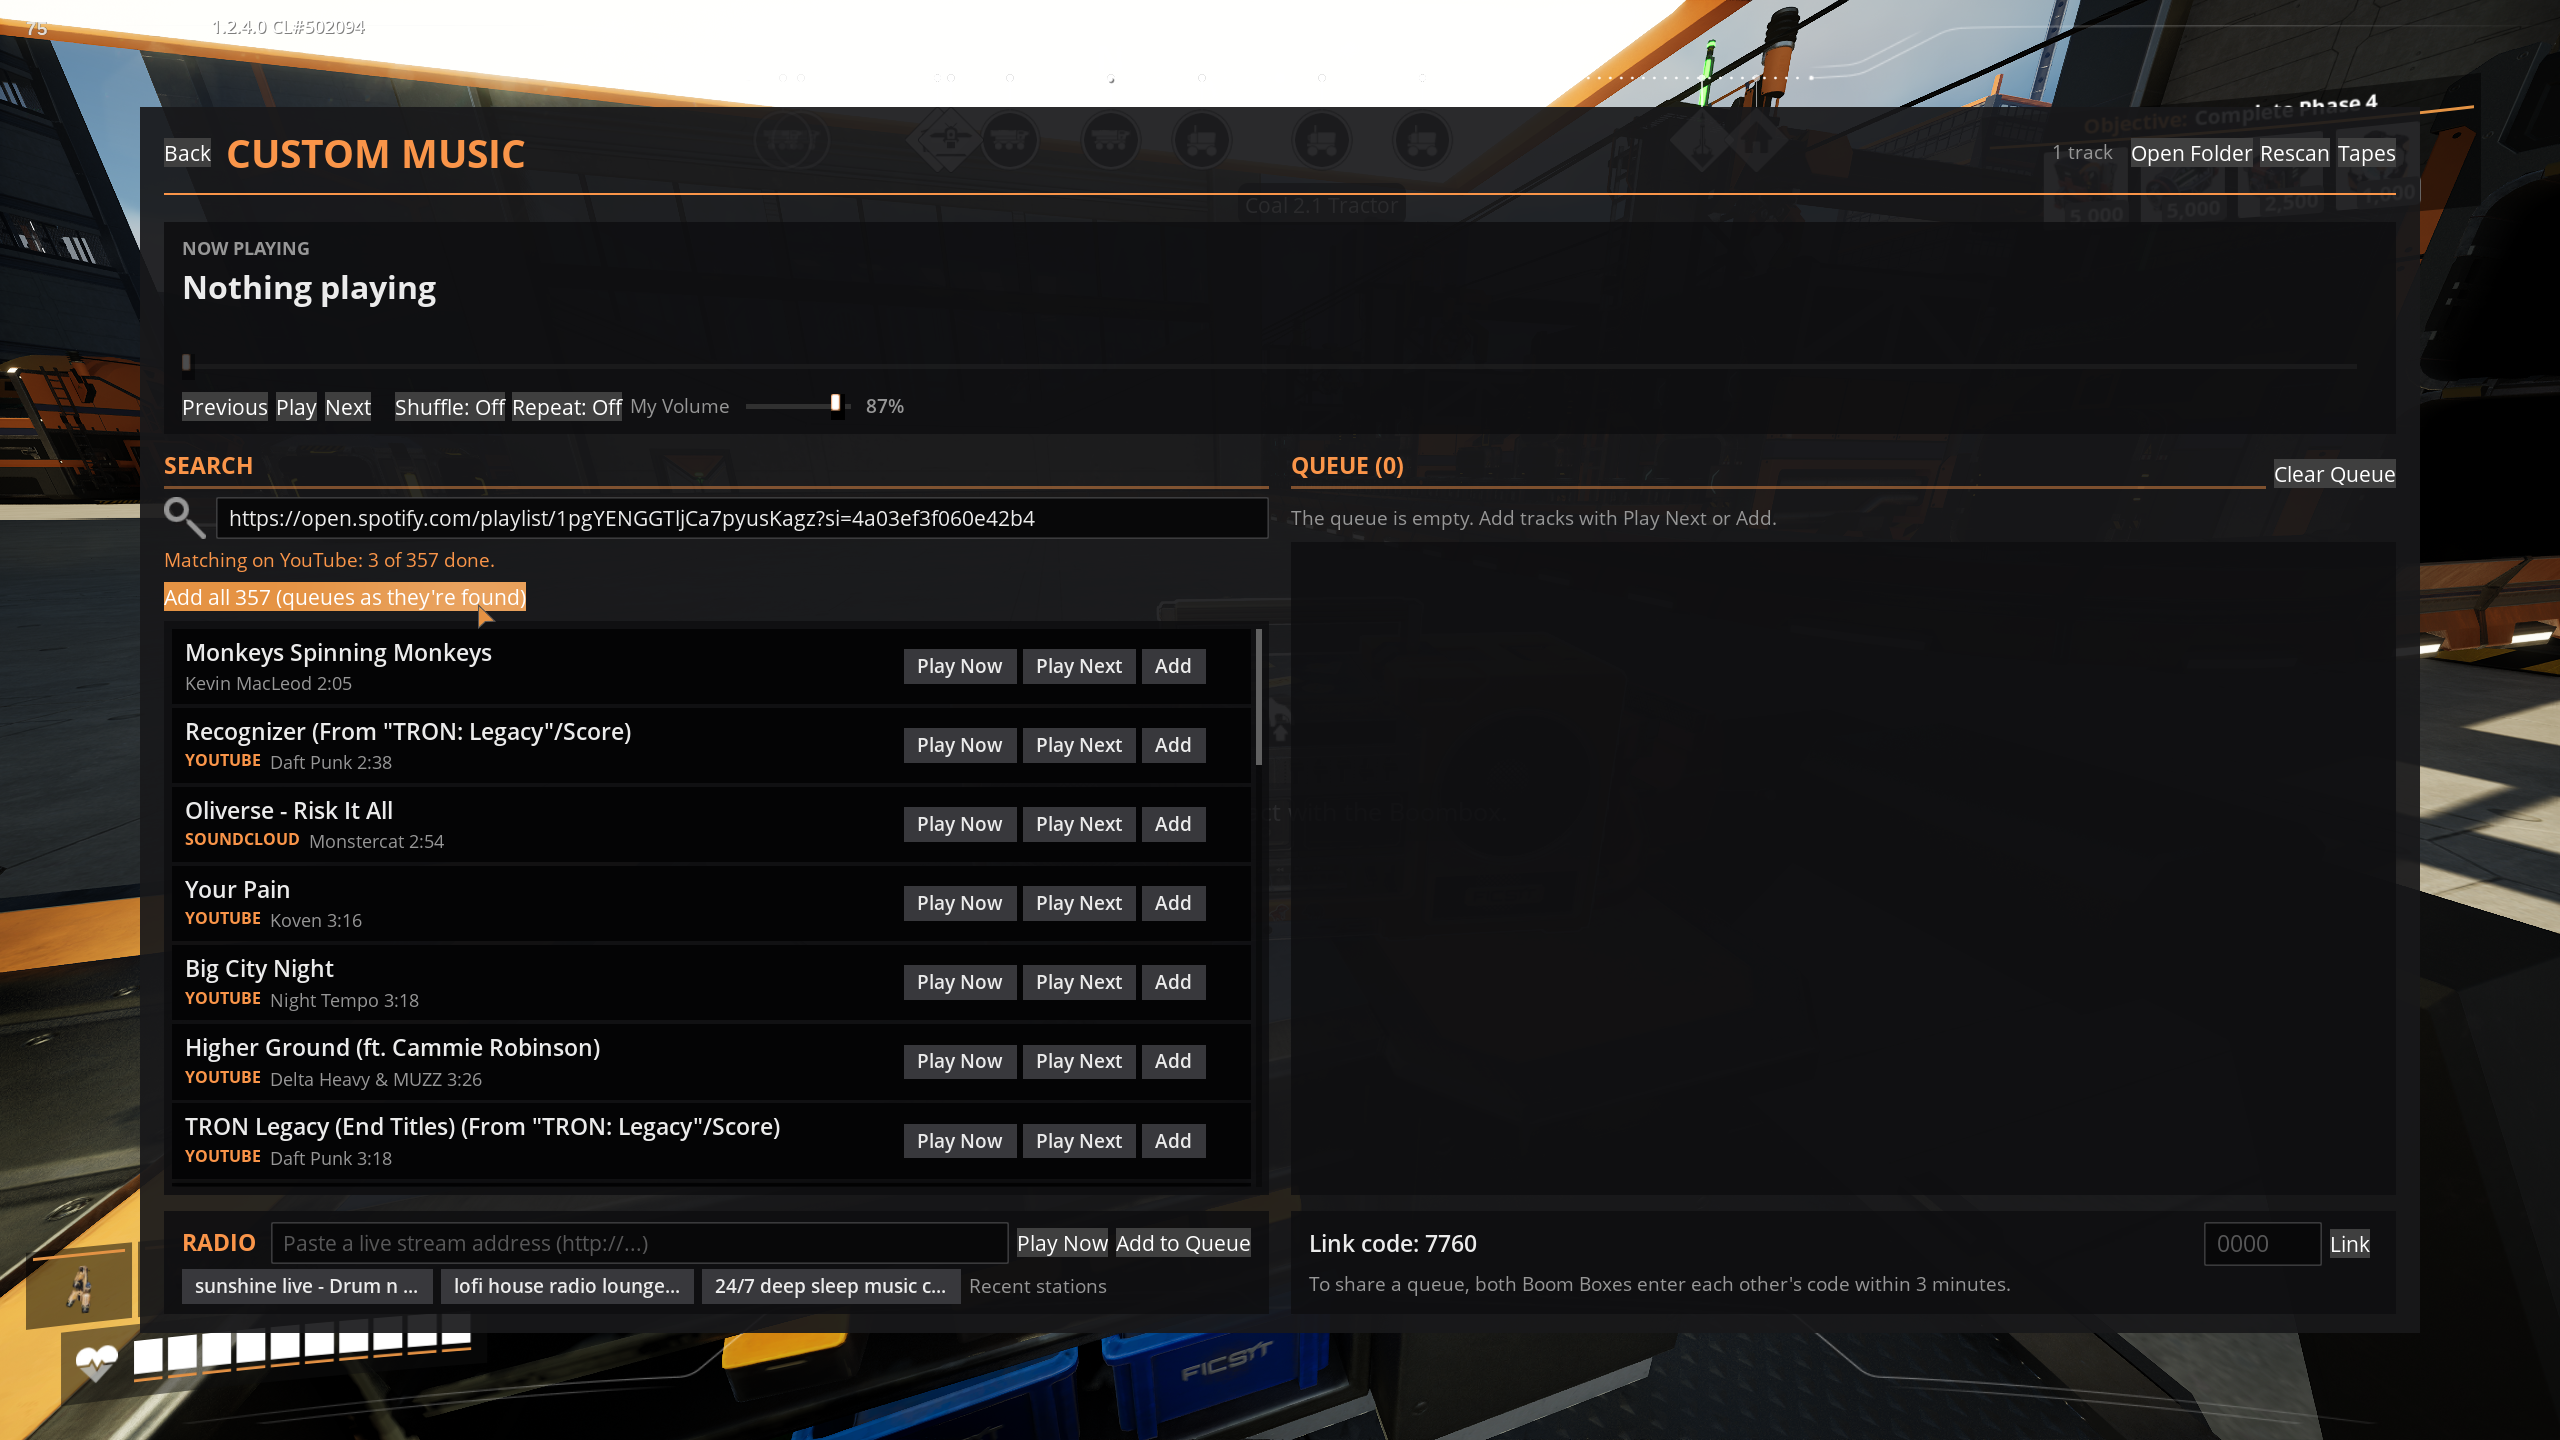
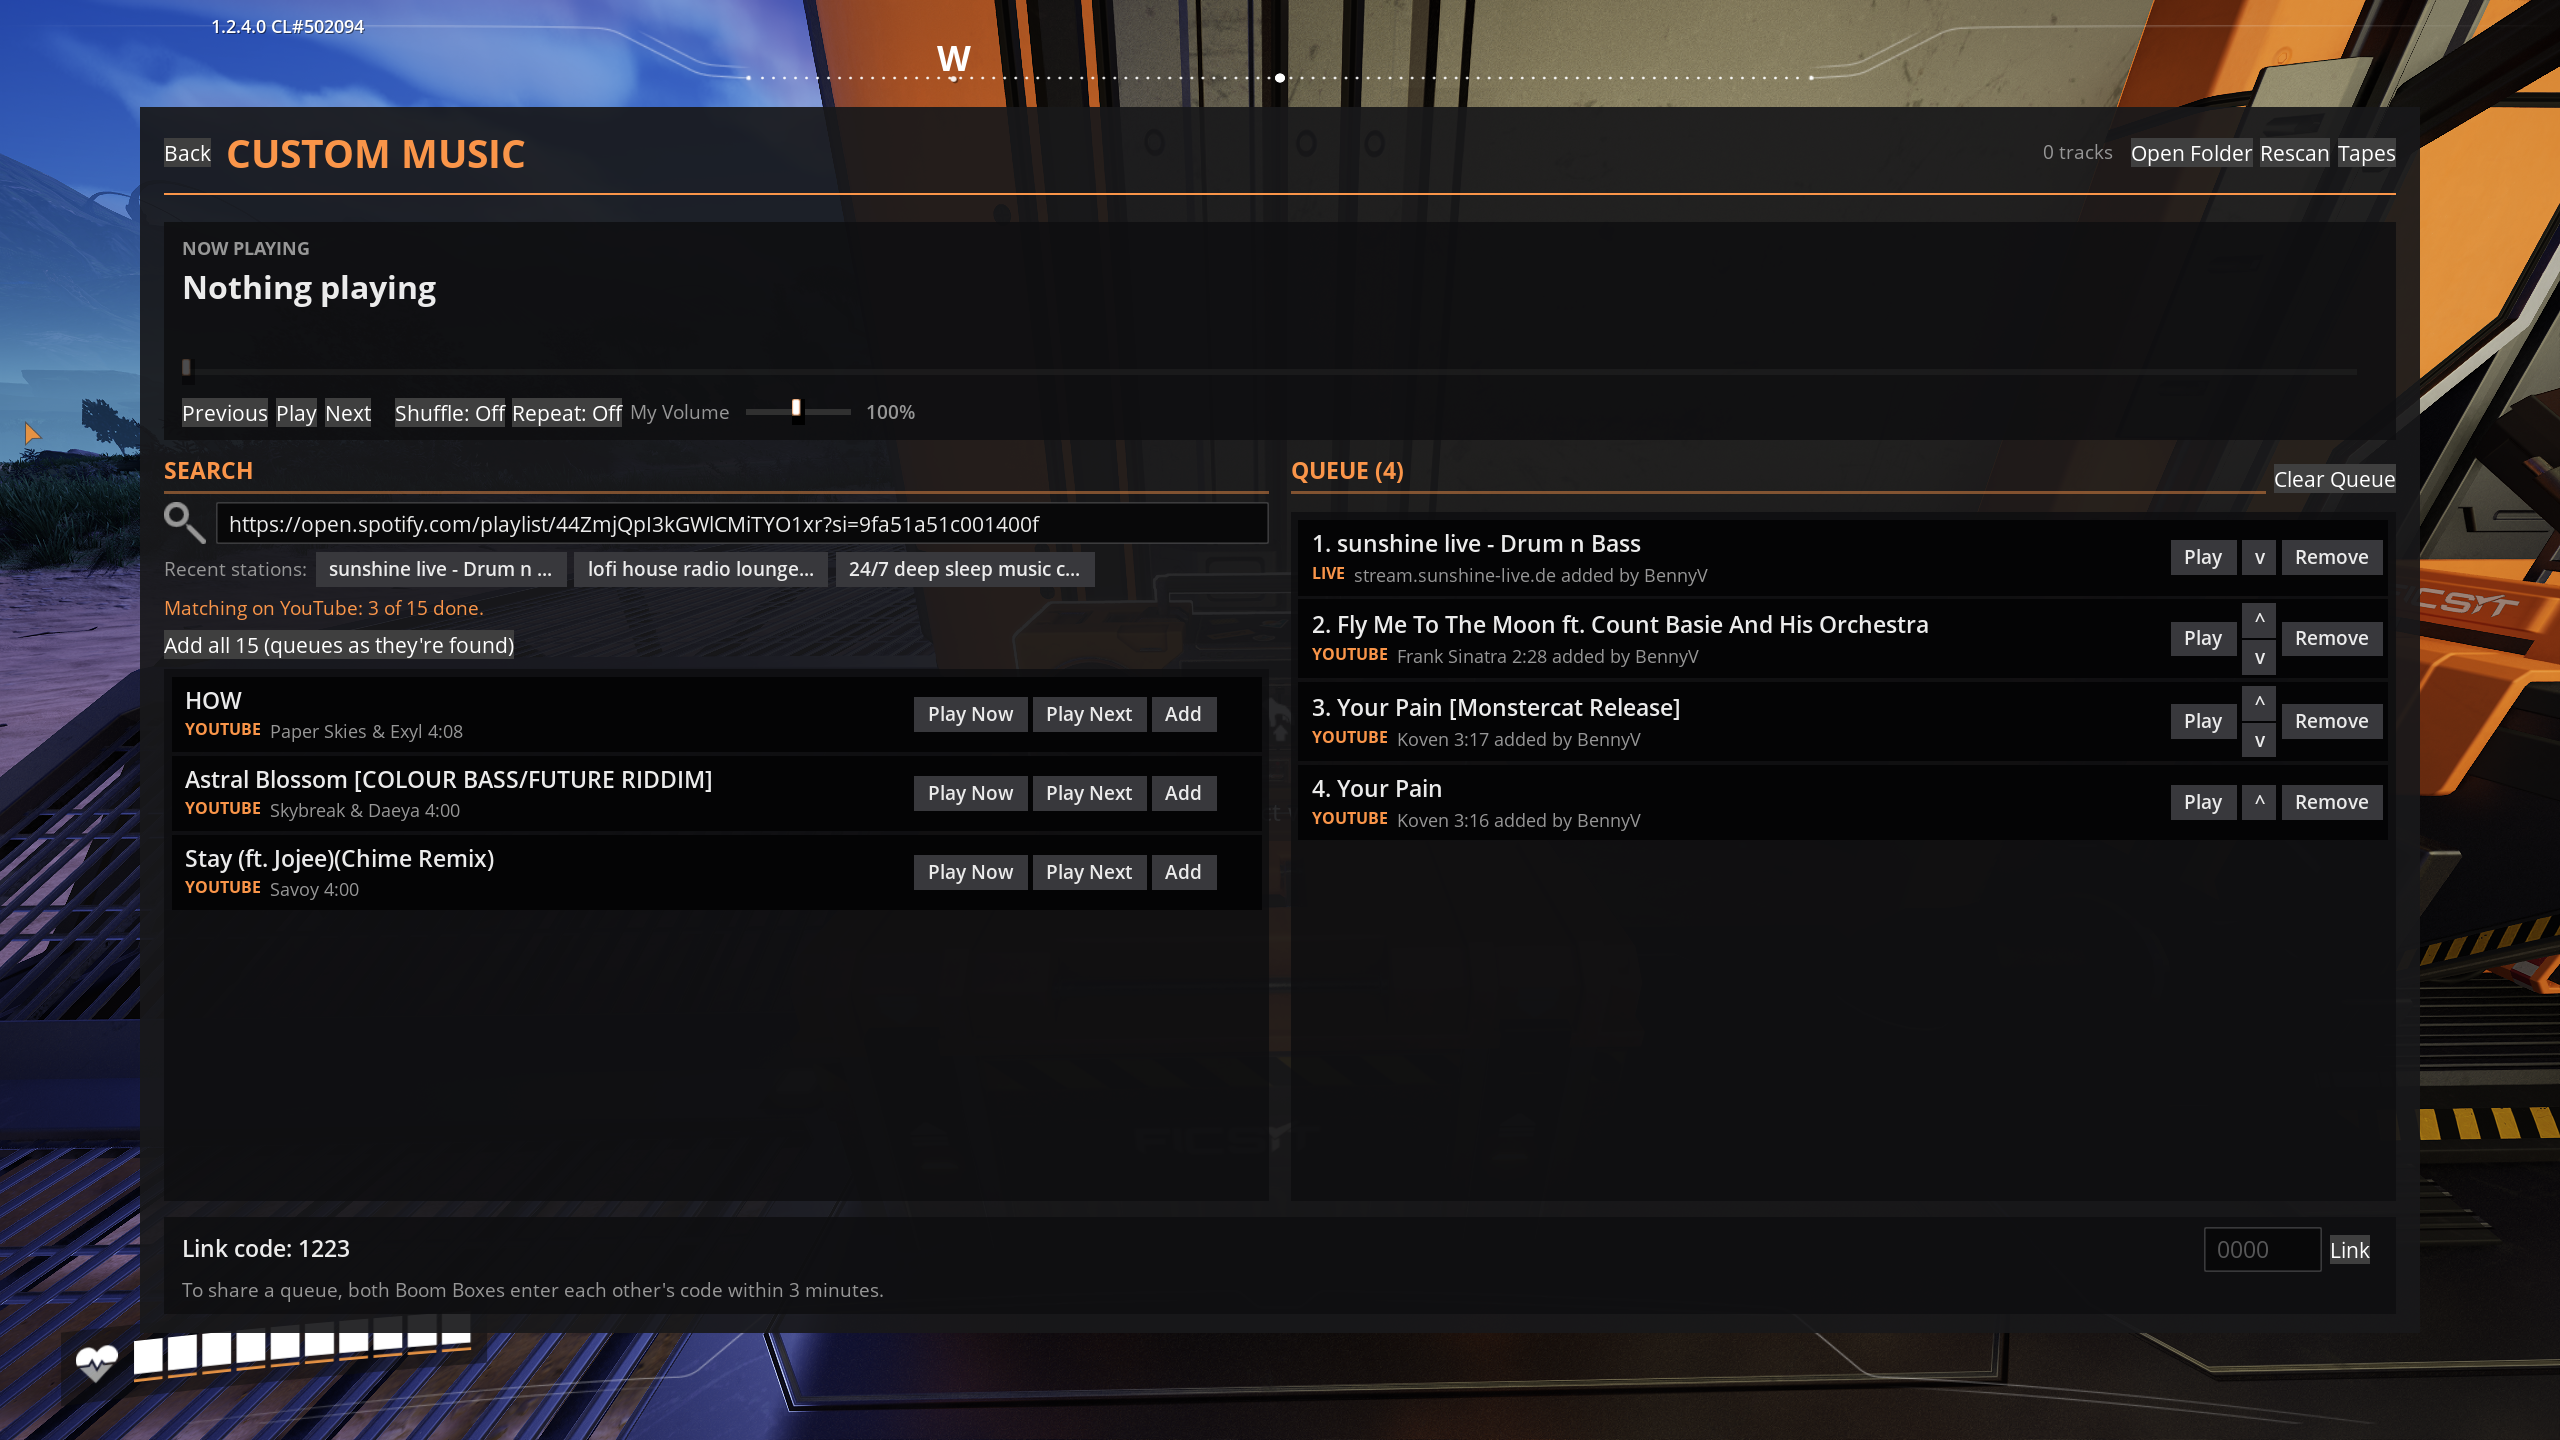
Replace the Spotify screenshots with 1.2.6 ones

diff --git a/Docs/Release/ModPage.md b/Docs/Release/ModPage.md
@@ -115,9 +115,9 @@ To read whole playlists you own (up to 1000 songs):
 Pasting a playlist link shows the matches as they're found; **Add all** starts playing right away and
 keeps adding the rest in order:
 
-![A 357-song Spotify playlist being matched on YouTube, with Add all](https://raw.githubusercontent.com/benvrakas/BoomBoxPlus/main/Docs/Images/spotify-matching.png)
+![A Spotify playlist being matched on YouTube, with Add all](https://raw.githubusercontent.com/benvrakas/BoomBoxPlus/main/Docs/Images/spotify-matching.png)
 
-![Matches queueing while the rest of the playlist is still being matched](https://raw.githubusercontent.com/benvrakas/BoomBoxPlus/main/Docs/Images/spotify-queueing.png)
+![The whole playlist matched and in the queue, its first song already playing](https://raw.githubusercontent.com/benvrakas/BoomBoxPlus/main/Docs/Images/spotify-queueing.png)
 
 Use the Spotify account that created the app. The mod only asks for permission to read playlists. The
 Client Secret is only ever sent to Spotify. Spotify albums work with just the Client ID and Secret, with

diff --git a/README.md b/README.md
@@ -31,7 +31,7 @@ found while the rest are still being matched.
 
 ![A Spotify playlist being matched](Docs/Images/spotify-matching.png)
 
-![Matches queueing while matching continues](Docs/Images/spotify-queueing.png)
+![The whole playlist matched and in the queue, its first song already playing](Docs/Images/spotify-queueing.png)
 
 The current lyric line while a Boom Box plays nearby, placed or carried.
 
